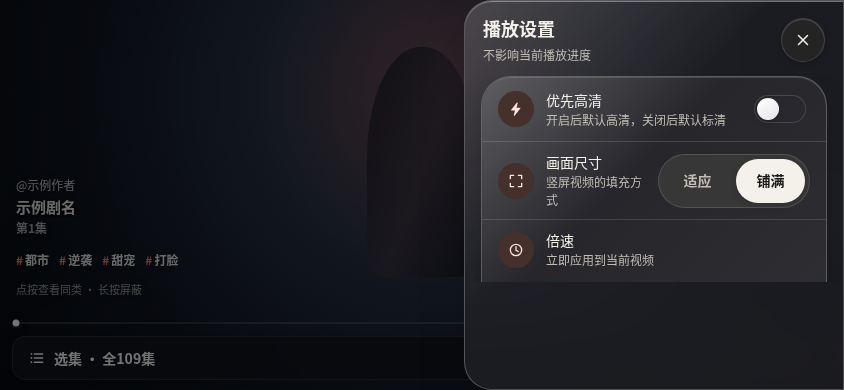
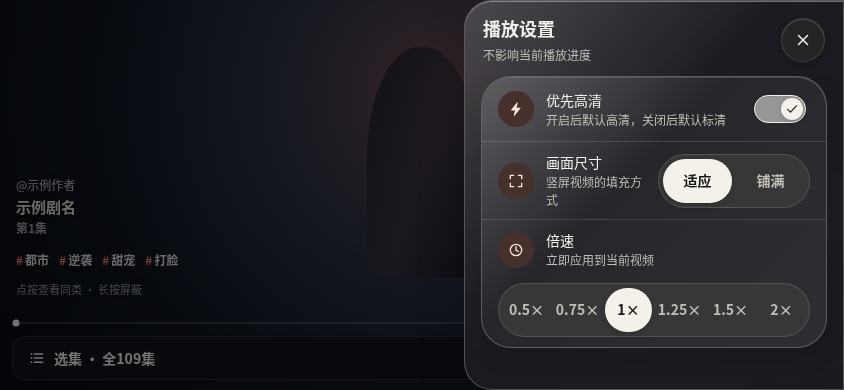
docs: add portrait and landscape preview gallery
Ship eight preview states for the PR gallery and capture landscape fullscreen/clean screenshots. The landscape settings drawer now uses the full viewport height so all rate options remain visible, and the browser test asserts the six rate buttons stay inside the 390px viewport.

Changed region(s): [[0.5853, 0.7077, 0.9858, 0.8923], [0.7701, 0.4, 0.955, 0.5231], [0.8934, 0.2462, 0.955, 0.3385]]

diff --git a/src/styles/video-details.css b/src/styles/video-details.css
@@ -76,7 +76,7 @@
   .playback-settings-overlay .ios-dialog { width:min(380px,58vw); max-width:none; height:100%; max-height:none; margin:0 0 0 auto; padding-bottom:0; border-radius:28px 0 0 28px; }
   .playback-settings-overlay .ios-sheet-grip { display:none; }
   .playback-settings-overlay.ios-overlay-sheet.is-open .ios-dialog { animation:playback-settings-drawer-in .24s cubic-bezier(.2,.8,.2,1) both; }
-  .playback-settings-sheet { height:100%; }
+  .playback-settings-sheet { height:100%; max-height:none; }
   .playback-settings-header { padding-top:max(14px,var(--native-sat,0px)); }
   .playback-settings-group>.playback-setting-row { min-height:56px; padding:10px 16px; }
 }

diff --git a/tests/home-controls.tsx b/tests/home-controls.tsx
@@ -53,8 +53,11 @@ function Probe() {
       homeControlsProbe: {
         panel: () => panel,
         rate: () => rate,
+        setRate: (value: number) => setRate(value),
         preferHevc: () => preferHevc,
+        setPreferHevc: (value: boolean) => setPreferHevc(value),
         portraitFit: () => portraitFit,
+        setPortraitFit: (value: "contain" | "cover") => setPortraitFit(value),
         swipeEp: () => swipeEp,
         muted: () => muted,
         openedTag: () => openedTag,
